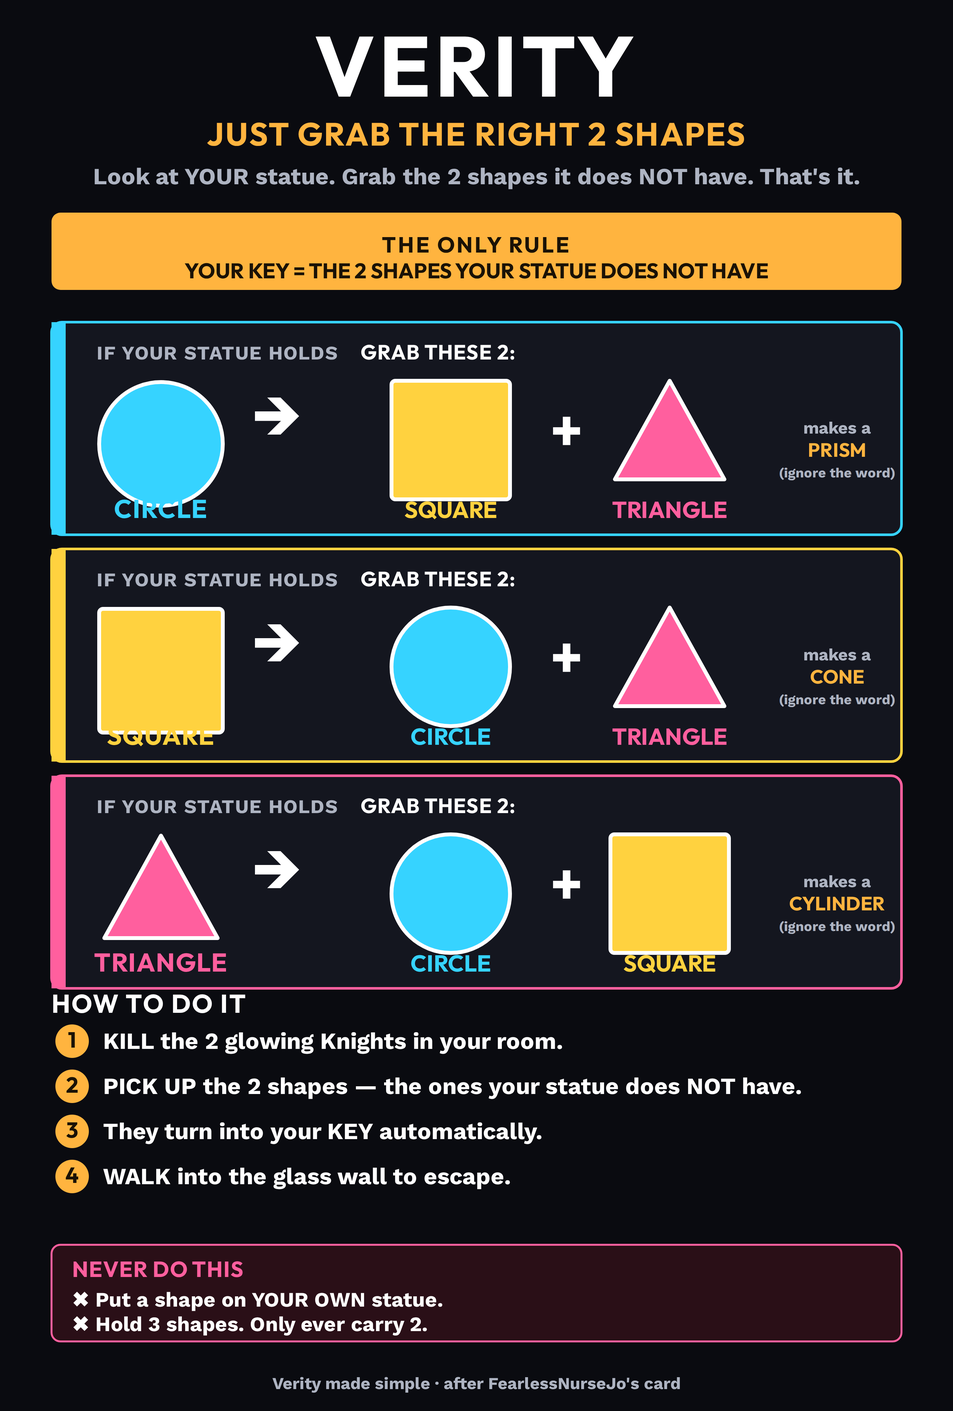
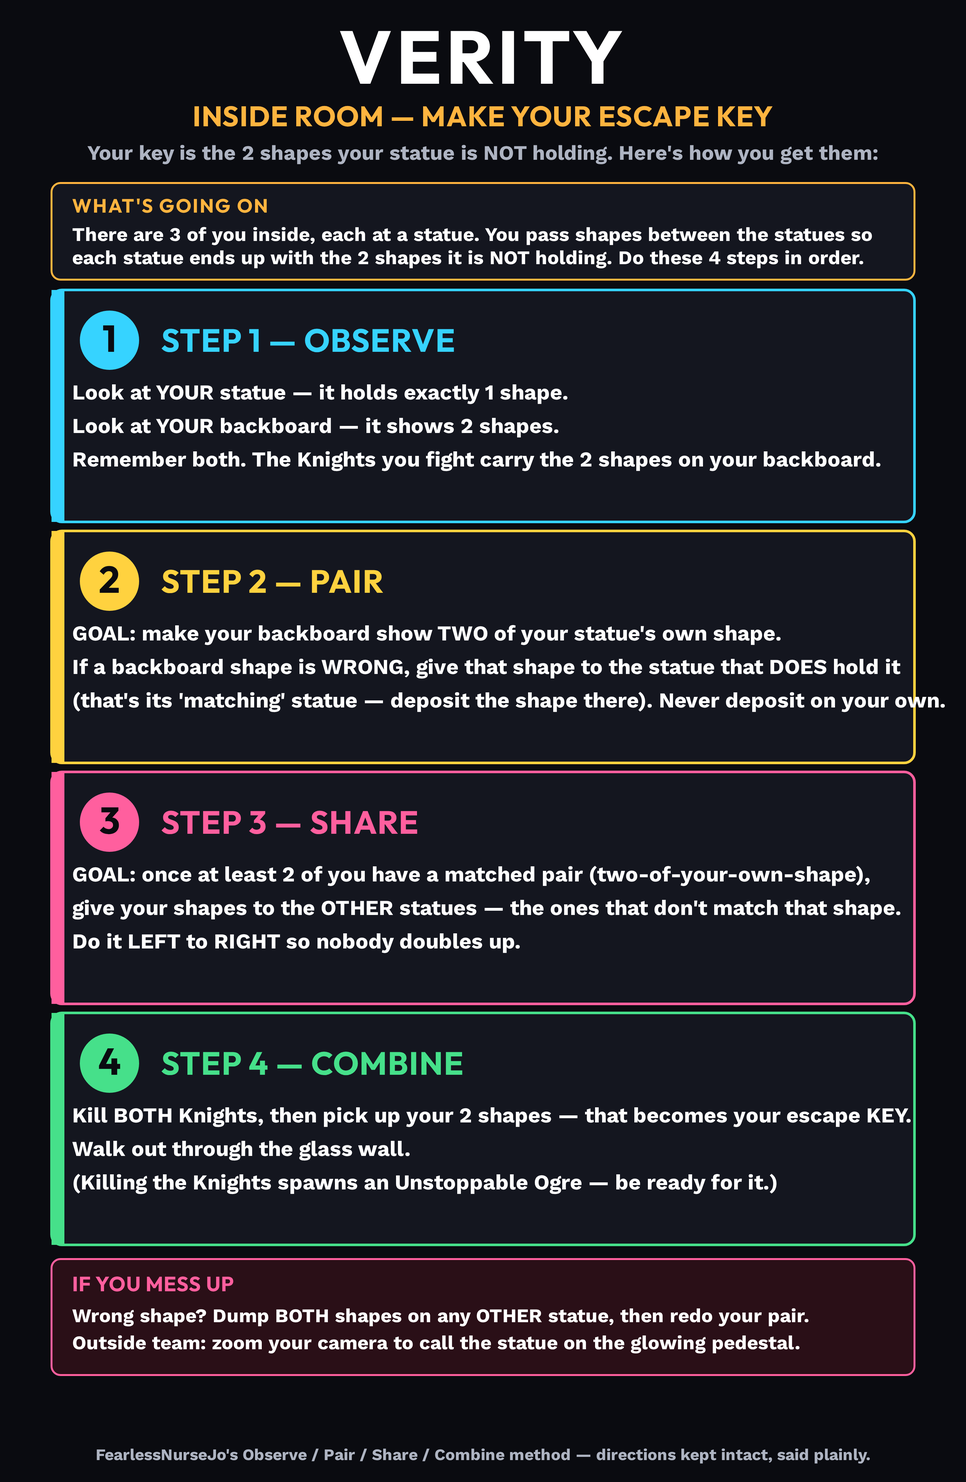
verity image: keep FearlessNurseJo's Observe/Pair/Share/Combine method intact, said plainly
Previous accessible card over-simplified to 'grab 2 shapes' and lost the actual
Pair->Share distribution method. Redone as the faithful 4-step method in plain,
high-contrast, normal-human language (per user: keep original directions intact).

diff --git a/raid_context/verity-simple/simple.html b/raid_context/verity-simple/simple.html
@@ -2,4 +2,4 @@
 @font-face{font-family:'Outfit';src:url('fonts/Outfit-Bold.ttf');font-weight:700}
 @font-face{font-family:'WorkSans';src:url('fonts/WorkSans-Bold.ttf');font-weight:700}
 *{margin:0;padding:0}body{background:#0a0b10}
-</style></head><body><svg width="1480" height="2190" viewBox="0 0 1480 2190" xmlns="http://www.w3.org/2000/svg"><rect width="1480" height="2190" fill="#0a0b10"/><text x="740.0" y="150" font-family="Outfit" font-weight="700" font-size="132" fill="#ffffff" text-anchor="middle" letter-spacing="6">VERITY</text><text x="740.0" y="226" font-family="Outfit" font-weight="700" font-size="50" fill="#ffb43f" text-anchor="middle" letter-spacing="2">JUST GRAB THE RIGHT 2 SHAPES</text><text x="740.0" y="286" font-family="WorkSans" font-weight="700" font-size="36" fill="#aeb4c2" text-anchor="middle" letter-spacing="0">Look at YOUR statue. Grab the 2 shapes it does NOT have. That's it.</text><rect x="80" y="330" width="1320" height="120" rx="14" fill="#ffb43f"/><text x="740.0" y="392" font-family="Outfit" font-weight="700" font-size="34" fill="#1a1206" text-anchor="middle" letter-spacing="3">THE ONLY RULE</text><text x="740.0" y="432" font-family="Outfit" font-weight="700" font-size="33" fill="#1a1206" text-anchor="middle" letter-spacing="0">YOUR KEY = THE 2 SHAPES YOUR STATUE DOES NOT HAVE</text><rect x="80" y="500" width="1320" height="330" rx="16" fill="#14161f" stroke="#36d3ff" stroke-width="4"/><rect x="80" y="500" width="22" height="330" rx="0" fill="#36d3ff"/><text x="150" y="558" font-family="WorkSans" font-weight="700" font-size="30" fill="#aeb4c2" text-anchor="start" letter-spacing="1">IF YOUR STATUE HOLDS</text><circle cx="250" cy="689.0" r="96" fill="#36d3ff" stroke="#ffffff" stroke-width="6"/><text x="250" y="804" font-family="Outfit" font-weight="700" font-size="40" fill="#36d3ff" text-anchor="middle" letter-spacing="1">CIRCLE</text><text x="430" y="683.0" font-family="Outfit" font-weight="700" font-size="110" fill="#ffffff" text-anchor="middle" letter-spacing="0">&#8594;</text><text x="560" y="558" font-family="Outfit" font-weight="700" font-size="32" fill="#ffffff" text-anchor="start" letter-spacing="1">GRAB THESE 2:</text><rect x="608" y="591.0" width="184" height="184" rx="6" fill="#ffd23f" stroke="#ffffff" stroke-width="6"/><text x="700" y="804" font-family="Outfit" font-weight="700" font-size="36" fill="#ffd23f" text-anchor="middle" letter-spacing="0">SQUARE</text><text x="880" y="699.0" font-family="Outfit" font-weight="700" font-size="90" fill="#ffffff" text-anchor="middle" letter-spacing="0">+</text><polygon points="1040,591.0 1125,744 955,744" fill="#ff5f9e" stroke="#ffffff" stroke-width="6" stroke-linejoin="round"/><text x="1040" y="804" font-family="Outfit" font-weight="700" font-size="36" fill="#ff5f9e" text-anchor="middle" letter-spacing="0">TRIANGLE</text><text x="1300" y="673.0" font-family="WorkSans" font-weight="700" font-size="26" fill="#aeb4c2" text-anchor="middle" letter-spacing="0">makes a</text><text x="1300" y="709.0" font-family="Outfit" font-weight="700" font-size="30" fill="#ffb43f" text-anchor="middle" letter-spacing="0">PRISM</text><text x="1300" y="741.0" font-family="WorkSans" font-weight="700" font-size="21" fill="#aeb4c2" text-anchor="middle" letter-spacing="0">(ignore the word)</text><rect x="80" y="852" width="1320" height="330" rx="16" fill="#14161f" stroke="#ffd23f" stroke-width="4"/><rect x="80" y="852" width="22" height="330" rx="0" fill="#ffd23f"/><text x="150" y="910" font-family="WorkSans" font-weight="700" font-size="30" fill="#aeb4c2" text-anchor="start" letter-spacing="1">IF YOUR STATUE HOLDS</text><rect x="154" y="945.0" width="192" height="192" rx="6" fill="#ffd23f" stroke="#ffffff" stroke-width="6"/><text x="250" y="1156" font-family="Outfit" font-weight="700" font-size="40" fill="#ffd23f" text-anchor="middle" letter-spacing="1">SQUARE</text><text x="430" y="1035.0" font-family="Outfit" font-weight="700" font-size="110" fill="#ffffff" text-anchor="middle" letter-spacing="0">&#8594;</text><text x="560" y="910" font-family="Outfit" font-weight="700" font-size="32" fill="#ffffff" text-anchor="start" letter-spacing="1">GRAB THESE 2:</text><circle cx="700" cy="1035.0" r="92" fill="#36d3ff" stroke="#ffffff" stroke-width="6"/><text x="700" y="1156" font-family="Outfit" font-weight="700" font-size="36" fill="#36d3ff" text-anchor="middle" letter-spacing="0">CIRCLE</text><text x="880" y="1051.0" font-family="Outfit" font-weight="700" font-size="90" fill="#ffffff" text-anchor="middle" letter-spacing="0">+</text><polygon points="1040,943.0 1125,1096 955,1096" fill="#ff5f9e" stroke="#ffffff" stroke-width="6" stroke-linejoin="round"/><text x="1040" y="1156" font-family="Outfit" font-weight="700" font-size="36" fill="#ff5f9e" text-anchor="middle" letter-spacing="0">TRIANGLE</text><text x="1300" y="1025.0" font-family="WorkSans" font-weight="700" font-size="26" fill="#aeb4c2" text-anchor="middle" letter-spacing="0">makes a</text><text x="1300" y="1061.0" font-family="Outfit" font-weight="700" font-size="30" fill="#ffb43f" text-anchor="middle" letter-spacing="0">CONE</text><text x="1300" y="1093.0" font-family="WorkSans" font-weight="700" font-size="21" fill="#aeb4c2" text-anchor="middle" letter-spacing="0">(ignore the word)</text><rect x="80" y="1204" width="1320" height="330" rx="16" fill="#14161f" stroke="#ff5f9e" stroke-width="4"/><rect x="80" y="1204" width="22" height="330" rx="0" fill="#ff5f9e"/><text x="150" y="1262" font-family="WorkSans" font-weight="700" font-size="30" fill="#aeb4c2" text-anchor="start" letter-spacing="1">IF YOUR STATUE HOLDS</text><polygon points="250,1297.0 338,1456 162,1456" fill="#ff5f9e" stroke="#ffffff" stroke-width="6" stroke-linejoin="round"/><text x="250" y="1508" font-family="Outfit" font-weight="700" font-size="40" fill="#ff5f9e" text-anchor="middle" letter-spacing="1">TRIANGLE</text><text x="430" y="1387.0" font-family="Outfit" font-weight="700" font-size="110" fill="#ffffff" text-anchor="middle" letter-spacing="0">&#8594;</text><text x="560" y="1262" font-family="Outfit" font-weight="700" font-size="32" fill="#ffffff" text-anchor="start" letter-spacing="1">GRAB THESE 2:</text><circle cx="700" cy="1387.0" r="92" fill="#36d3ff" stroke="#ffffff" stroke-width="6"/><text x="700" y="1508" font-family="Outfit" font-weight="700" font-size="36" fill="#36d3ff" text-anchor="middle" letter-spacing="0">CIRCLE</text><text x="880" y="1403.0" font-family="Outfit" font-weight="700" font-size="90" fill="#ffffff" text-anchor="middle" letter-spacing="0">+</text><rect x="948" y="1295.0" width="184" height="184" rx="6" fill="#ffd23f" stroke="#ffffff" stroke-width="6"/><text x="1040" y="1508" font-family="Outfit" font-weight="700" font-size="36" fill="#ffd23f" text-anchor="middle" letter-spacing="0">SQUARE</text><text x="1300" y="1377.0" font-family="WorkSans" font-weight="700" font-size="26" fill="#aeb4c2" text-anchor="middle" letter-spacing="0">makes a</text><text x="1300" y="1413.0" font-family="Outfit" font-weight="700" font-size="30" fill="#ffb43f" text-anchor="middle" letter-spacing="0">CYLINDER</text><text x="1300" y="1445.0" font-family="WorkSans" font-weight="700" font-size="21" fill="#aeb4c2" text-anchor="middle" letter-spacing="0">(ignore the word)</text><text x="80" y="1572" font-family="Outfit" font-weight="700" font-size="40" fill="#ffffff" text-anchor="start" letter-spacing="2">HOW TO DO IT</text><circle cx="112" cy="1616" r="26" fill="#ffb43f"/><text x="112" y="1626" font-family="Outfit" font-weight="700" font-size="34" fill="#1a1206" text-anchor="middle" letter-spacing="0">1</text><text x="160" y="1628" font-family="WorkSans" font-weight="700" font-size="36" fill="#ffffff" text-anchor="start" letter-spacing="0">KILL the 2 glowing Knights in your room.</text><circle cx="112" cy="1686" r="26" fill="#ffb43f"/><text x="112" y="1696" font-family="Outfit" font-weight="700" font-size="34" fill="#1a1206" text-anchor="middle" letter-spacing="0">2</text><text x="160" y="1698" font-family="WorkSans" font-weight="700" font-size="36" fill="#ffffff" text-anchor="start" letter-spacing="0">PICK UP the 2 shapes — the ones your statue does NOT have.</text><circle cx="112" cy="1756" r="26" fill="#ffb43f"/><text x="112" y="1766" font-family="Outfit" font-weight="700" font-size="34" fill="#1a1206" text-anchor="middle" letter-spacing="0">3</text><text x="160" y="1768" font-family="WorkSans" font-weight="700" font-size="36" fill="#ffffff" text-anchor="start" letter-spacing="0">They turn into your KEY automatically.</text><circle cx="112" cy="1826" r="26" fill="#ffb43f"/><text x="112" y="1836" font-family="Outfit" font-weight="700" font-size="34" fill="#1a1206" text-anchor="middle" letter-spacing="0">4</text><text x="160" y="1838" font-family="WorkSans" font-weight="700" font-size="36" fill="#ffffff" text-anchor="start" letter-spacing="0">WALK into the glass wall to escape.</text><rect x="80" y="1932" width="1320" height="150" rx="14" fill="#2a0f17" stroke="#ff5f9e" stroke-width="3"/><text x="112" y="1982" font-family="Outfit" font-weight="700" font-size="34" fill="#ff5f9e" text-anchor="start" letter-spacing="1">NEVER DO THIS</text><text x="112" y="2028" font-family="WorkSans" font-weight="700" font-size="32" fill="#ffffff" text-anchor="start" letter-spacing="0">&#10006;  Put a shape on YOUR OWN statue.</text><text x="112" y="2066" font-family="WorkSans" font-weight="700" font-size="32" fill="#ffffff" text-anchor="start" letter-spacing="0">&#10006;  Hold 3 shapes. Only ever carry 2.</text><text x="740.0" y="2156" font-family="WorkSans" font-weight="700" font-size="26" fill="#aeb4c2" text-anchor="middle" letter-spacing="0">Verity made simple  ·  after FearlessNurseJo's card</text></svg></body></html>
+</style></head><body><svg width="1500" height="2300" viewBox="0 0 1500 2300" xmlns="http://www.w3.org/2000/svg"><rect width="1500" height="2300" fill="#0a0b10"/><text x="750.0" y="130" font-family="Outfit" font-weight="700" font-size="116" fill="#ffffff" text-anchor="middle" letter-spacing="6">VERITY</text><text x="750.0" y="196" font-family="Outfit" font-weight="700" font-size="44" fill="#ffb43f" text-anchor="middle" letter-spacing="1">INSIDE ROOM — MAKE YOUR ESCAPE KEY</text><text x="750.0" y="248" font-family="WorkSans" font-weight="700" font-size="32" fill="#aeb4c2" text-anchor="middle" letter-spacing="0">Your key is the 2 shapes your statue is NOT holding. Here's how you get them:</text><rect x="80" y="284" width="1340" height="150" rx="14" fill="#14161f" stroke="#ffb43f" stroke-width="3"/><text x="112" y="330" font-family="Outfit" font-weight="700" font-size="30" fill="#ffb43f" text-anchor="start" letter-spacing="2">WHAT'S GOING ON</text><text x="112" y="374" font-family="WorkSans" font-weight="700" font-size="30" fill="#ffffff" text-anchor="start" letter-spacing="0">There are 3 of you inside, each at a statue. You pass shapes between the statues so</text><text x="112" y="410" font-family="WorkSans" font-weight="700" font-size="30" fill="#ffffff" text-anchor="start" letter-spacing="0">each statue ends up with the 2 shapes it is NOT holding. Do these 4 steps in order.</text><rect x="80" y="450" width="1340" height="360" rx="16" fill="#14161f" stroke="#36d3ff" stroke-width="4"/><rect x="80" y="450" width="20" height="360" fill="#36d3ff"/><circle cx="170" cy="528" r="46" fill="#36d3ff"/><text x="170" y="546" font-family="Outfit" font-weight="700" font-size="58" fill="#0a0b10" text-anchor="middle" letter-spacing="0">1</text><text x="250" y="546" font-family="Outfit" font-weight="700" font-size="50" fill="#36d3ff" text-anchor="start" letter-spacing="1">STEP 1 — OBSERVE</text><text x="112" y="620" font-family="WorkSans" font-weight="700" font-size="33" fill="#ffffff" text-anchor="start" letter-spacing="0">Look at YOUR statue — it holds exactly 1 shape.</text><text x="112" y="672" font-family="WorkSans" font-weight="700" font-size="33" fill="#ffffff" text-anchor="start" letter-spacing="0">Look at YOUR backboard — it shows 2 shapes.</text><text x="112" y="724" font-family="WorkSans" font-weight="700" font-size="33" fill="#ffffff" text-anchor="start" letter-spacing="0">Remember both. The Knights you fight carry the 2 shapes on your backboard.</text><rect x="80" y="824" width="1340" height="360" rx="16" fill="#14161f" stroke="#ffd23f" stroke-width="4"/><rect x="80" y="824" width="20" height="360" fill="#ffd23f"/><circle cx="170" cy="902" r="46" fill="#ffd23f"/><text x="170" y="920" font-family="Outfit" font-weight="700" font-size="58" fill="#0a0b10" text-anchor="middle" letter-spacing="0">2</text><text x="250" y="920" font-family="Outfit" font-weight="700" font-size="50" fill="#ffd23f" text-anchor="start" letter-spacing="1">STEP 2 — PAIR</text><text x="112" y="994" font-family="WorkSans" font-weight="700" font-size="33" fill="#ffffff" text-anchor="start" letter-spacing="0">GOAL: make your backboard show TWO of your statue's own shape.</text><text x="112" y="1046" font-family="WorkSans" font-weight="700" font-size="33" fill="#ffffff" text-anchor="start" letter-spacing="0">If a backboard shape is WRONG, give that shape to the statue that DOES hold it</text><text x="112" y="1098" font-family="WorkSans" font-weight="700" font-size="33" fill="#ffffff" text-anchor="start" letter-spacing="0">(that's its 'matching' statue — deposit the shape there). Never deposit on your own.</text><rect x="80" y="1198" width="1340" height="360" rx="16" fill="#14161f" stroke="#ff5f9e" stroke-width="4"/><rect x="80" y="1198" width="20" height="360" fill="#ff5f9e"/><circle cx="170" cy="1276" r="46" fill="#ff5f9e"/><text x="170" y="1294" font-family="Outfit" font-weight="700" font-size="58" fill="#0a0b10" text-anchor="middle" letter-spacing="0">3</text><text x="250" y="1294" font-family="Outfit" font-weight="700" font-size="50" fill="#ff5f9e" text-anchor="start" letter-spacing="1">STEP 3 — SHARE</text><text x="112" y="1368" font-family="WorkSans" font-weight="700" font-size="33" fill="#ffffff" text-anchor="start" letter-spacing="0">GOAL: once at least 2 of you have a matched pair (two-of-your-own-shape),</text><text x="112" y="1420" font-family="WorkSans" font-weight="700" font-size="33" fill="#ffffff" text-anchor="start" letter-spacing="0">give your shapes to the OTHER statues — the ones that don't match that shape.</text><text x="112" y="1472" font-family="WorkSans" font-weight="700" font-size="33" fill="#ffffff" text-anchor="start" letter-spacing="0">Do it LEFT to RIGHT so nobody doubles up.</text><rect x="80" y="1572" width="1340" height="360" rx="16" fill="#14161f" stroke="#46e08a" stroke-width="4"/><rect x="80" y="1572" width="20" height="360" fill="#46e08a"/><circle cx="170" cy="1650" r="46" fill="#46e08a"/><text x="170" y="1668" font-family="Outfit" font-weight="700" font-size="58" fill="#0a0b10" text-anchor="middle" letter-spacing="0">4</text><text x="250" y="1668" font-family="Outfit" font-weight="700" font-size="50" fill="#46e08a" text-anchor="start" letter-spacing="1">STEP 4 — COMBINE</text><text x="112" y="1742" font-family="WorkSans" font-weight="700" font-size="33" fill="#ffffff" text-anchor="start" letter-spacing="0">Kill BOTH Knights, then pick up your 2 shapes — that becomes your escape KEY.</text><text x="112" y="1794" font-family="WorkSans" font-weight="700" font-size="33" fill="#ffffff" text-anchor="start" letter-spacing="0">Walk out through the glass wall.</text><text x="112" y="1846" font-family="WorkSans" font-weight="700" font-size="33" fill="#ffffff" text-anchor="start" letter-spacing="0">(Killing the Knights spawns an Unstoppable Ogre — be ready for it.)</text><rect x="80" y="1954" width="1340" height="180" rx="14" fill="#2a0f17" stroke="#ff5f9e" stroke-width="3"/><text x="112" y="2004" font-family="Outfit" font-weight="700" font-size="32" fill="#ff5f9e" text-anchor="start" letter-spacing="1">IF YOU MESS UP</text><text x="112" y="2052" font-family="WorkSans" font-weight="700" font-size="30" fill="#ffffff" text-anchor="start" letter-spacing="0">Wrong shape? Dump BOTH shapes on any OTHER statue, then redo your pair.</text><text x="112" y="2094" font-family="WorkSans" font-weight="700" font-size="30" fill="#ffffff" text-anchor="start" letter-spacing="0">Outside team: zoom your camera to call the statue on the glowing pedestal.</text><text x="750.0" y="2266" font-family="WorkSans" font-weight="700" font-size="25" fill="#aeb4c2" text-anchor="middle" letter-spacing="0">FearlessNurseJo's Observe / Pair / Share / Combine method — directions kept intact, said plainly.</text></svg></body></html>

diff --git a/raid_context/verity-simple/generate_simple.py b/raid_context/verity-simple/generate_simple.py
@@ -1,6 +1,7 @@
 #!/usr/bin/env python3
-"""VERITY — dead-simple, high-contrast, no-geometry accessible card."""
-W, H = 1480, 2190
+"""VERITY inside-room — FearlessNurseJo's Observe/Pair/Share/Combine method,
+kept intact but said in plain, high-contrast, normal-human language."""
+W, H = 1500, 2300
 BG = "#0a0b10"
 PANEL = "#14161f"
 WHITE = "#ffffff"
@@ -10,95 +11,76 @@ MUT = "#aeb4c2"
 CIRCLE = "#36d3ff"
 SQUARE = "#ffd23f"
 TRIANGLE = "#ff5f9e"
-COL = {"circle": CIRCLE, "square": SQUARE, "triangle": TRIANGLE}
-NM = {"circle": "CIRCLE", "square": "SQUARE", "triangle": "TRIANGLE"}
-KEYNAME = {"circle": "PRISM", "square": "CONE", "triangle": "CYLINDER"}
-OTHERS = {"circle": ("square", "triangle"), "square": ("circle", "triangle"), "triangle": ("circle", "square")}
+GREEN = "#46e08a"
+STEPC = ["#36d3ff", "#ffd23f", "#ff5f9e", "#46e08a"]
 
 S = []
 def add(x): S.append(x)
-
-def txt(x, y, s, size, c=WHITE, font="Outfit", anchor="start", spacing=0):
+def txt(x, y, s, size, c=WHITE, font="Outfit", anchor="start", sp=0):
     return (f'<text x="{x}" y="{y}" font-family="{font}" font-weight="700" font-size="{size}" '
-            f'fill="{c}" text-anchor="{anchor}" letter-spacing="{spacing}">{s}</text>')
-
-def shape(cx, cy, kind, r, big=True):
-    c = COL[kind]
-    sw = 6 if big else 4
-    fill = c
-    if kind == "circle":
-        return f'<circle cx="{cx}" cy="{cy}" r="{r}" fill="{fill}" stroke="{WHITE}" stroke-width="{sw}"/>'
-    if kind == "square":
-        return f'<rect x="{cx-r}" y="{cy-r}" width="{2*r}" height="{2*r}" rx="6" fill="{fill}" stroke="{WHITE}" stroke-width="{sw}"/>'
+            f'fill="{c}" text-anchor="{anchor}" letter-spacing="{sp}">{s}</text>')
+def shp(cx, cy, kind, r, c):
+    if kind == "circle": return f'<circle cx="{cx}" cy="{cy}" r="{r}" fill="{c}" stroke="{WHITE}" stroke-width="4"/>'
+    if kind == "square": return f'<rect x="{cx-r}" y="{cy-r}" width="{2*r}" height="{2*r}" rx="5" fill="{c}" stroke="{WHITE}" stroke-width="4"/>'
     p = f"{cx},{cy-r} {cx+r*0.92:.0f},{cy+r*0.66:.0f} {cx-r*0.92:.0f},{cy+r*0.66:.0f}"
-    return f'<polygon points="{p}" fill="{fill}" stroke="{WHITE}" stroke-width="{sw}" stroke-linejoin="round"/>'
+    return f'<polygon points="{p}" fill="{c}" stroke="{WHITE}" stroke-width="4" stroke-linejoin="round"/>'
 
 add(f'<rect width="{W}" height="{H}" fill="{BG}"/>')
+# header
+add(txt(W/2, 130, "VERITY", 116, WHITE, "Outfit", "middle", 6))
+add(txt(W/2, 196, "INSIDE ROOM — MAKE YOUR ESCAPE KEY", 44, GOLD, "Outfit", "middle", 1))
+add(txt(W/2, 248, "Your key is the 2 shapes your statue is NOT holding. Here's how you get them:", 32, MUT, "WorkSans", "middle"))
 
-# ---- header
-add(txt(W/2, 150, "VERITY", 132, WHITE, "Outfit", "middle", 6))
-add(txt(W/2, 226, "JUST GRAB THE RIGHT 2 SHAPES", 50, GOLD, "Outfit", "middle", 2))
-add(txt(W/2, 286, "Look at YOUR statue. Grab the 2 shapes it does NOT have. That's it.", 36, MUT, "WorkSans", "middle"))
+# what's going on box
+add(f'<rect x="80" y="284" width="{W-160}" height="150" rx="14" fill="{PANEL}" stroke="{GOLD}" stroke-width="3"/>')
+add(txt(112, 330, "WHAT'S GOING ON", 30, GOLD, "Outfit", "start", 2))
+add(txt(112, 374, "There are 3 of you inside, each at a statue. You pass shapes between the statues so", 30, WHITE, "WorkSans"))
+add(txt(112, 410, "each statue ends up with the 2 shapes it is NOT holding. Do these 4 steps in order.", 30, WHITE, "WorkSans"))
 
-# ---- THE RULE banner
-add(f'<rect x="80" y="330" width="{W-160}" height="120" rx="14" fill="{GOLD}"/>')
-add(txt(W/2, 392, "THE ONLY RULE", 34, "#1a1206", "Outfit", "middle", 3))
-add(txt(W/2, 432, "YOUR KEY = THE 2 SHAPES YOUR STATUE DOES NOT HAVE", 33, "#1a1206", "Outfit", "middle"))
-
-# ---- 3 giant lookup rows
-rows = ["circle", "square", "triangle"]
-y0 = 500
-rh = 330
-gap = 22
-for i, st in enumerate(rows):
-    y = y0 + i * (rh + gap)
-    c = COL[st]
-    a, b = OTHERS[st]
-    # panel with thick colored left bar
-    add(f'<rect x="80" y="{y}" width="{W-160}" height="{rh}" rx="16" fill="{PANEL}" stroke="{c}" stroke-width="4"/>')
-    add(f'<rect x="80" y="{y}" width="22" height="{rh}" rx="0" fill="{c}"/>')
-    cy = y + rh/2
-    # LEFT: your statue
-    add(txt(150, y+58, "IF YOUR STATUE HOLDS", 30, MUT, "WorkSans", "start", 1))
-    add(shape(250, cy+24, st, 96))
-    add(txt(250, y+rh-26, NM[st], 40, c, "Outfit", "middle", 1))
-    # arrow
-    add(txt(430, cy+18, "&#8594;", 110, WHITE, "Outfit", "middle"))
-    # RIGHT: grab these 2
-    add(txt(560, y+58, "GRAB THESE 2:", 32, WHITE, "Outfit", "start", 1))
-    add(shape(700, cy+18, a, 92))
-    add(txt(700, y+rh-26, NM[a], 36, COL[a], "Outfit", "middle"))
-    add(txt(880, cy+34, "+", 90, WHITE, "Outfit", "middle"))
-    add(shape(1040, cy+18, b, 92))
-    add(txt(1040, y+rh-26, NM[b], 36, COL[b], "Outfit", "middle"))
-    add(txt(1300, cy+8, f"makes a", 26, MUT, "WorkSans", "middle"))
-    add(txt(1300, cy+44, KEYNAME[st], 30, GOLD, "Outfit", "middle"))
-    add(txt(1300, cy+76, "(ignore the word)", 21, MUT, "WorkSans", "middle"))
-
-# ---- HOW TO (4 steps)
-sy = y0 + 3 * (rh + gap) + 16
-add(txt(80, sy, "HOW TO DO IT", 40, WHITE, "Outfit", "start", 2))
 steps = [
-    "KILL the 2 glowing Knights in your room.",
-    "PICK UP the 2 shapes — the ones your statue does NOT have.",
-    "They turn into your KEY automatically.",
-    "WALK into the glass wall to escape.",
+    ("OBSERVE", "circle", [
+        "Look at YOUR statue — it holds exactly 1 shape.",
+        "Look at YOUR backboard — it shows 2 shapes.",
+        "Remember both. The Knights you fight carry the 2 shapes on your backboard.",
+    ]),
+    ("PAIR", "square", [
+        "GOAL: make your backboard show TWO of your statue's own shape.",
+        "If a backboard shape is WRONG, give that shape to the statue that DOES hold it",
+        "(that's its 'matching' statue — deposit the shape there). Never deposit on your own.",
+    ]),
+    ("SHARE", "triangle", [
+        "GOAL: once at least 2 of you have a matched pair (two-of-your-own-shape),",
+        "give your shapes to the OTHER statues — the ones that don't match that shape.",
+        "Do it LEFT to RIGHT so nobody doubles up.",
+    ]),
+    ("COMBINE", "green", [
+        "Kill BOTH Knights, then pick up your 2 shapes — that becomes your escape KEY.",
+        "Walk out through the glass wall.",
+        "(Killing the Knights spawns an Unstoppable Ogre — be ready for it.)",
+    ]),
 ]
-for i, s in enumerate(steps):
-    yy = sy + 56 + i * 70
-    add(f'<circle cx="112" cy="{yy-12}" r="26" fill="{GOLD}"/>')
-    add(txt(112, yy-2, str(i+1), 34, "#1a1206", "Outfit", "middle"))
-    add(txt(160, yy, s, 36, WHITE, "WorkSans", "start"))
+y0 = 450
+rh = 360
+for i, (name, sh, lines) in enumerate(steps):
+    y = y0 + i * (rh + 14)
+    c = STEPC[i]
+    add(f'<rect x="80" y="{y}" width="{W-160}" height="{rh}" rx="16" fill="{PANEL}" stroke="{c}" stroke-width="4"/>')
+    add(f'<rect x="80" y="{y}" width="20" height="{rh}" fill="{c}"/>')
+    # big number circle
+    add(f'<circle cx="170" cy="{y+78}" r="46" fill="{c}"/>')
+    add(txt(170, y+96, str(i+1), 58, "#0a0b10", "Outfit", "middle"))
+    add(txt(250, y+96, f"STEP {i+1} — {name}", 50, c, "Outfit", "start", 1))
+    for j, ln in enumerate(lines):
+        add(txt(112, y+170 + j*52, ln, 33, WHITE, "WorkSans"))
 
-# ---- NEVER
-ny = sy + 56 + 4 * 70 + 24
-add(f'<rect x="80" y="{ny}" width="{W-160}" height="150" rx="14" fill="#2a0f17" stroke="{TRIANGLE}" stroke-width="3"/>')
-add(txt(112, ny+50, "NEVER DO THIS", 34, TRIANGLE, "Outfit", "start", 1))
-add(txt(112, ny+96, "&#10006;  Put a shape on YOUR OWN statue.", 32, WHITE, "WorkSans", "start"))
-add(txt(112, ny+134, "&#10006;  Hold 3 shapes. Only ever carry 2.", 32, WHITE, "WorkSans", "start"))
+# helpful info
+hy = y0 + 4 * (rh + 14) + 8
+add(f'<rect x="80" y="{hy}" width="{W-160}" height="180" rx="14" fill="#2a0f17" stroke="{TRIANGLE}" stroke-width="3"/>')
+add(txt(112, hy+50, "IF YOU MESS UP", 32, TRIANGLE, "Outfit", "start", 1))
+add(txt(112, hy+98, "Wrong shape? Dump BOTH shapes on any OTHER statue, then redo your pair.", 30, WHITE, "WorkSans"))
+add(txt(112, hy+140, "Outside team: zoom your camera to call the statue on the glowing pedestal.", 30, WHITE, "WorkSans"))
 
-# ---- footer credit
-add(txt(W/2, H-34, "Verity made simple  ·  after FearlessNurseJo's card", 26, MUT, "WorkSans", "middle"))
+add(txt(W/2, H-34, "FearlessNurseJo's Observe / Pair / Share / Combine method — directions kept intact, said plainly.", 25, MUT, "WorkSans", "middle"))
 
 svg = f'<svg width="{W}" height="{H}" viewBox="0 0 {W} {H}" xmlns="http://www.w3.org/2000/svg">{"".join(S)}</svg>'
 html = f'''<!doctype html><html><head><meta charset="utf-8"><style>
